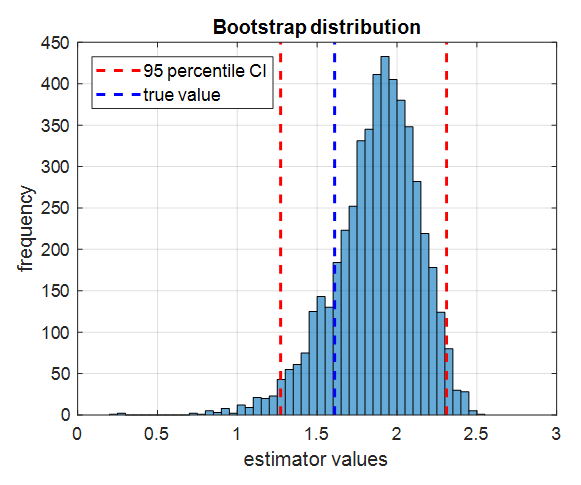
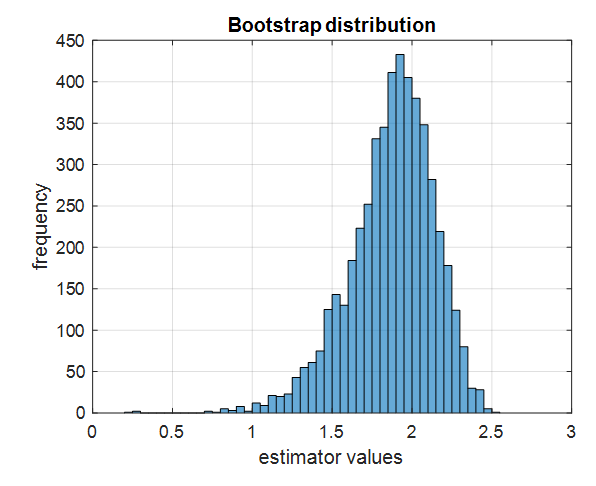
-

diff --git a/pics/2021-07-19-jackknife_and_bootstrap/pics.m b/pics/2021-07-19-jackknife_and_bootstrap/pics.m
@@ -11,18 +11,18 @@ end
 
 figure;
 histogram(val)
-
-CI(1) = prctile(val, 0.025*100);
-CI(2) = prctile(val, (1-0.025)*100);
-
-h(1) = line(ones(1,2) * CI(1), ylim, 'color','r','linestyle','--','linewidth',2);
-line(ones(1,2) * CI(2), ylim, 'color','r','linestyle','--','linewidth',2)
-h(2) = line(ones(1,2)*log(5), ylim,'color','b','linestyle','--','linewidth',2);
+% 
+% CI(1) = prctile(val, 0.025*100);
+% CI(2) = prctile(val, (1-0.025)*100);
+% 
+% h(1) = line(ones(1,2) * CI(1), ylim, 'color','r','linestyle','--','linewidth',2);
+% line(ones(1,2) * CI(2), ylim, 'color','r','linestyle','--','linewidth',2)
+% h(2) = line(ones(1,2)*log(5), ylim,'color','b','linestyle','--','linewidth',2);
 xlabel('estimator values'); ylabel('frequency');
 grid on;
 title('Bootstrap distribution')
-leg = legend(h, '95 percentile CI', 'true value', 'location','NW');
-set(leg,'fontsize',12);
+% leg = legend(h, '95 percentile CI', 'true value', 'location','NW');
+% set(leg,'fontsize',12);
 set(gca,'fontsize',12);
 
 %% sample distribution

diff --git a/_posts/2021-07-19-jackknife_and_bootstrap.md b/_posts/2021-07-19-jackknife_and_bootstrap.md
@@ -260,11 +260,43 @@ resample된 샘플의 수는 더 많아지므로 resample된 sample의 histogram
 
 식 (8)과 (9)에 나와 있는 데이터셋과 estimator를 그대로 이용해보자.
 
+우선 식 (8)에 있는 16개의 데이터셋에 대해 5000번의 중복을 허용한 resampling을 통해 데이터셋을 모은 뒤, 식 (9)에 있는 estimator를 적용시켜 5000개의 estimator value를 histogram에 뿌려보자.
+
 <p align = "center">
   <img src = "https://raw.githubusercontent.com/angeloyeo/angeloyeo.github.io/master/pics/2021-07-19-jackknife_and_bootstrap/pic8.png">
   <br>
-  그림 8. 부트스트랩 분포
+  그림 8. 5000개의 부트스트랩 데이터셋에 estimator를 적용시켜 얻은 값들에 대해 histogram을 그려본 것
 </p>
+
+여기서 5000개 estimator 값들을 줄세워 상위 2.5% 값과 상위 97.5%의 값을 찾고 표시해보자. 그리고 식 (8)에 있는 데이터셋은 분산이 5인 데이터로부터 얻어졌으므로 true estimator value는 
+
+$$\log(5)=1.6094$$
+
+임을 알 수 있으므로 true estimator value도 표시해보자. 그렇게 해주면 아래 그림과 같다.
+
+<p align = "center">
+  <img src = "https://raw.githubusercontent.com/angeloyeo/angeloyeo.github.io/master/pics/2021-07-19-jackknife_and_bootstrap/pic9.png">
+  <br>
+  그림 9. 부트스트랩 데이터셋에 estimator를 취해 얻은 값들의 상위 2.5 percentile 값과 상위 97.5 percentile 값, 그리고 true value를 표시한 것
+</p>
+
+이렇게 얻은 상위 2.5 percentile과 상위 97.5 percentile 값은 95% confidence interval이 된다.
+
+이 방법은 percentile Confidence Interval이라고 불리는 방법인데, 이 방법이 가장 직관적으로 이해하기 쉽다.
+
+물론 bootstrap 방법 이용 시 confidence interval을 계산하는 다른 방법들도 있으니 참고 문헌 중 (Singh and Xie)를 참고하도록 하자.
+
+여하튼 여기서 주목해야 할 부분은 true value가 이 95% confidence interval 안에 속할 수 있게 된다는 점이다.
+
+## 부트스트랩의 의의
+
+부트스트랩은 결국 우리가 샘플링을 여러번 하지 못하는 현실에서 여러번 추출할 수 있었을 샘플의 estimator 값 분포가 어땠을지를 논리적으로 추정할 수 있게 해준다는데 의의가 있다.
+
+이 내용은 [표본과 표준 오차의 의미](https://angeloyeo.github.io/2020/02/12/standard_error.html) 편에서 다룬 내용과 궤를 같이 하는 것인데,
+
+평균(mean)같이 표준 오차가 잘 알려진 estimator들은 이런 부트스트랩 같은 방법을 쓸 하등의 이유가 없지만 표준 오차를 계산하는 방법이 잘 알려져 있지 않은 식 (9)와 같은 estimator들은
+
+부트스트랩 방법을 통해 손쉽게 오차 범위를 생각해볼 수 있게 해주는 것이다.
 
 
 # 참고문헌
